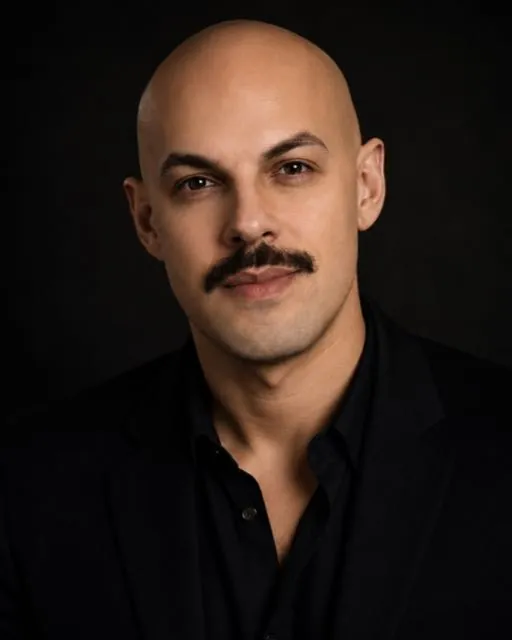
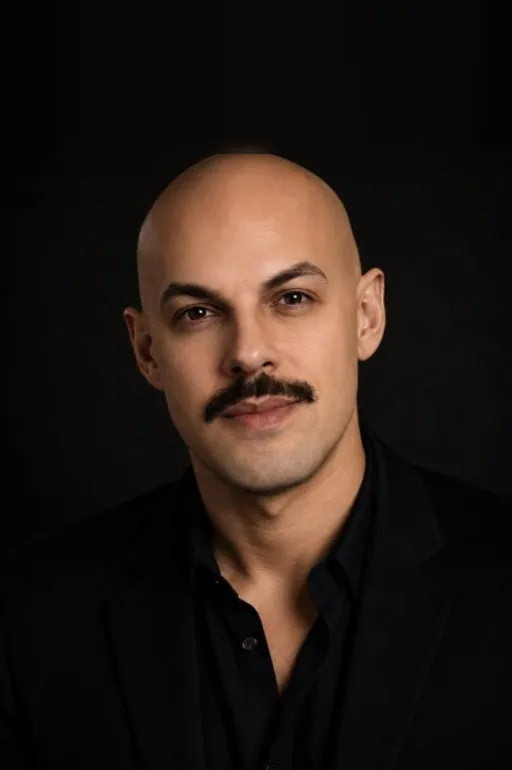
Foto do Willian com respiro acima da cabeça
A foto original começa quase no topo da cabeça; estendi o fundo escuro
para que o zoom e o parallax do desktop não cortem.

Claude-Session: https://claude.ai/code/session_013ZCXgATTZuAXSUnTVjtUT7

Changed region(s): [[0.2188, 0.0312, 0.7812, 0.9062]]

diff --git a/assets/css/style.css b/assets/css/style.css
@@ -348,6 +348,7 @@ button { font: inherit; }
   .pro--mavi .pro__photo { order: 0; }
   .pro__photo { min-height: 0; aspect-ratio: 1 / 1; }
   .pro .pro__photo img { object-position: 50% 0%; }
+  .pro--will .pro__photo img { object-position: 50% 30%; }
   .steps { grid-template-columns: 1fr; gap: 40px; }
   .steps__line { top: 0; bottom: 0; left: 34px; right: auto; width: 1px; height: auto; }
   .steps__fill { background: linear-gradient(180deg, var(--gold), var(--rose)); transform-origin: top; }
@@ -594,3 +595,5 @@ button { font: inherit; }
   --aura-b1: #c98b82; --aura-b3: #d9a49c;
   --aura-glow: rgba(170, 100, 92, 0.42);
 }
+
+.choice__head img[src*="willian"] { object-position: 50% 30%; }

diff --git a/index.html b/index.html
@@ -225,7 +225,7 @@
         <div class="pros__grid">
           <article class="pro pro--will reveal" data-tilt aria-labelledby="will-name">
             <div class="pro__photo">
-              <img src="assets/img/willian.webp" width="512" height="640" loading="lazy" alt="Retrato do psicólogo Willian Santos">
+              <img src="assets/img/willian.webp" width="512" height="770" loading="lazy" alt="Retrato do psicólogo Willian Santos">
             </div>
             <div class="pro__body">
               <div class="pro__top">
